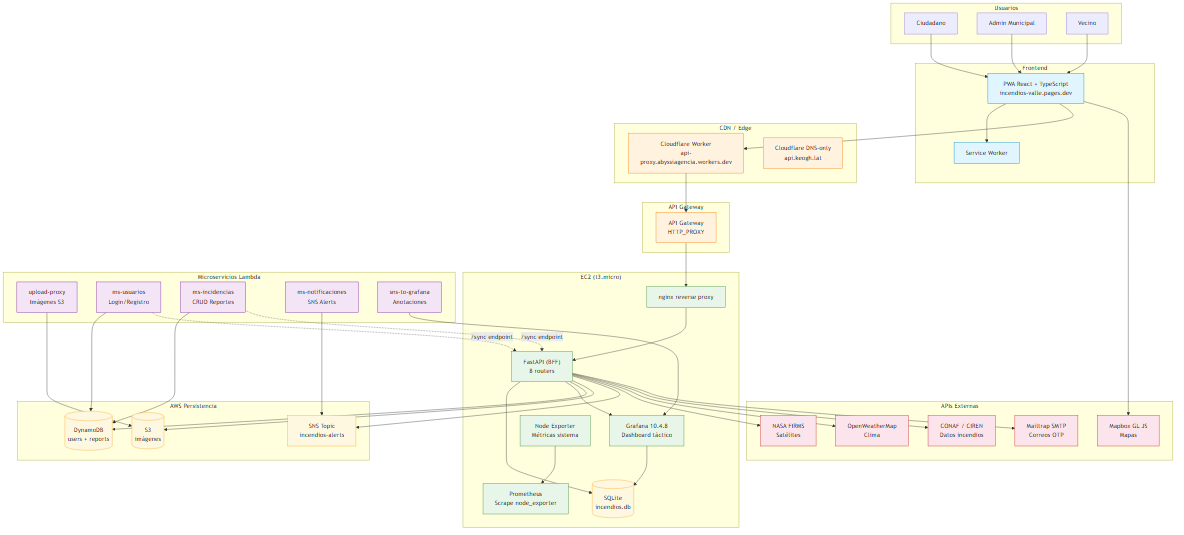
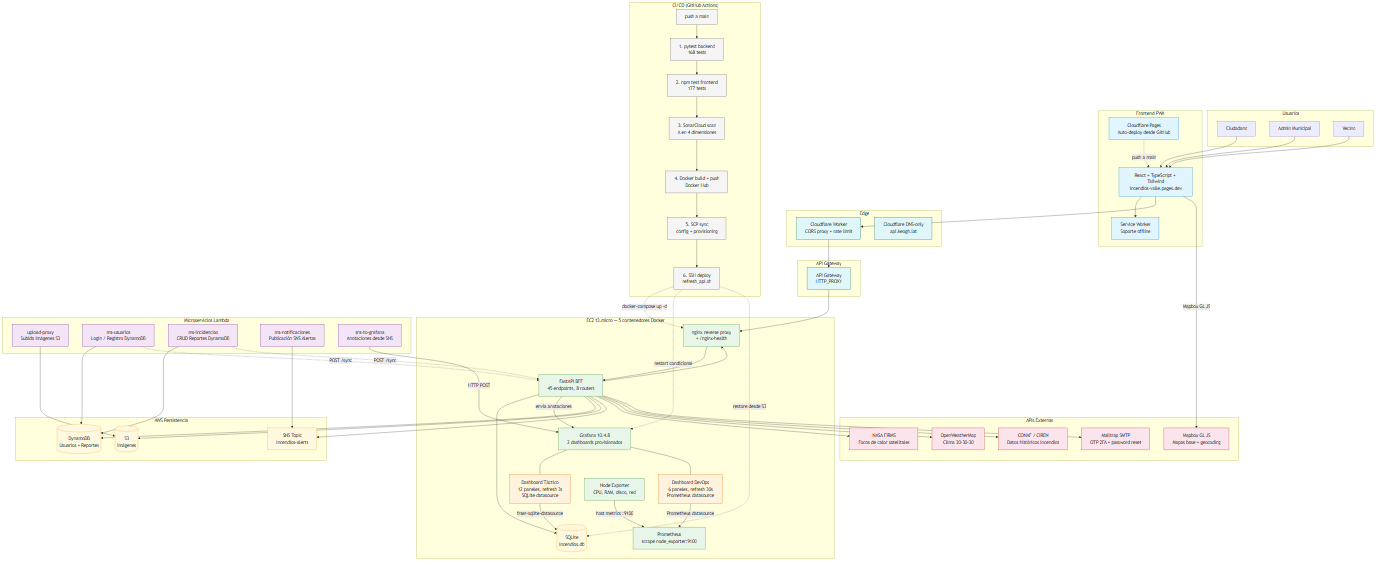
fix: diagrama arquitectura — 2 dashboards Grafana, Prometheus, CI/CD, worker correcto

Changed region(s): [[0.0, 0.0, 1.0, 1.0], [0.8438, 0.5383, 0.875, 0.5682]]

diff --git a/docs/diagrama-arquitectura.md b/docs/diagrama-arquitectura.md
@@ -8,13 +8,14 @@ graph TB
         VECINO[Vecino]
     end
 
-    subgraph "Frontend"
-        PWA["PWA React + TypeScript<br/>incendios-valle.pages.dev"]
-        SW[Service Worker]
+    subgraph "Frontend PWA"
+        PWA["React + TypeScript + Tailwind<br/>incendios-valle.pages.dev"]
+        CF_PAGES["Cloudflare Pages<br/>Auto-deploy desde GitHub"]
+        SW[Service Worker<br/>Soporte offline]
     end
 
-    subgraph "CDN / Edge"
-        CF["Cloudflare Worker<br/>api-proxy.abyssiagencia.workers.dev"]
+    subgraph "Edge"
+        CF_WORKER["Cloudflare Worker<br/>CORS proxy + rate limit"]
         DNS["Cloudflare DNS-only<br/>api.keogh.lat"]
     end
 
@@ -22,35 +23,47 @@ graph TB
         AG["API Gateway<br/>HTTP_PROXY"]
     end
 
-    subgraph "EC2 (t3.micro)"
-        nginx["nginx reverse proxy"]
-        API["FastAPI (BFF)<br/>8 routers"]
-        GRAFANA["Grafana 10.4.8<br/>Dashboard táctico"]
-        PROM["Prometheus<br/>Scrape node_exporter"]
-        NODE["Node Exporter<br/>Métricas sistema"]
+    subgraph "EC2 t3.micro — 5 contenedores Docker"
+        nginx["nginx reverse proxy<br/>+ /nginx-health"]
+        API["FastAPI BFF<br/>45 endpoints, 8 routers"]
+        GRAFANA["Grafana 10.4.8<br/>2 dashboards provisionados"]
+        G_DASH1["Dashboard Táctico<br/>12 paneles, refresh 3s<br/>SQLite datasource"]
+        G_DASH2["Dashboard DevOps<br/>6 paneles, refresh 30s<br/>Prometheus datasource"]
+        PROM["Prometheus<br/>scrape node_exporter:9100"]
+        NODE["Node Exporter<br/>CPU, RAM, disco, red"]
         SQLITE[(SQLite<br/>incendios.db)]
     end
 
     subgraph "Microservicios Lambda"
-        UP["upload-proxy<br/>Imágenes S3"]
-        USR["ms-usuarios<br/>Login/Registro"]
-        INC["ms-incidencias<br/>CRUD Reportes"]
-        NOT["ms-notificaciones<br/>SNS Alerts"]
-        SNS2G["sns-to-grafana<br/>Anotaciones"]
+        UP["upload-proxy<br/>Subida imágenes S3"]
+        USR["ms-usuarios<br/>Login / Registro DynamoDB"]
+        INC["ms-incidencias<br/>CRUD Reportes DynamoDB"]
+        NOT["ms-notificaciones<br/>Publicación SNS Alertas"]
+        SNS2G["sns-to-grafana<br/>Anotaciones desde SNS"]
     end
 
     subgraph "AWS Persistencia"
-        DDB[(DynamoDB<br/>users + reports)]
-        S3[(S3<br/>imágenes)]
+        DDB[(DynamoDB<br/>Usuarios + Reportes)]
+        S3[(S3<br/>Imágenes)]
         SNS["SNS Topic<br/>incendios-alerts"]
     end
 
     subgraph "APIs Externas"
-        FIRMS["NASA FIRMS<br/>Satélites"]
-        OWM["OpenWeatherMap<br/>Clima"]
-        CONAF["CONAF / CIREN<br/>Datos incendios"]
-        MAILTRAP["Mailtrap SMTP<br/>Correos OTP"]
-        MAPBOX["Mapbox GL JS<br/>Mapas"]
+        FIRMS["NASA FIRMS<br/>Focos de calor satelitales"]
+        OWM["OpenWeatherMap<br/>Clima 30-30-30"]
+        CONAF["CONAF / CIREN<br/>Datos históricos incendios"]
+        MAILTRAP["Mailtrap SMTP<br/>OTP 2FA + password reset"]
+        MAPBOX["Mapbox GL JS<br/>Mapas base + geocoding"]
+    end
+
+    subgraph "CI/CD (GitHub Actions)"
+        GH["push a main"]
+        BACKEND_TESTS["1. pytest backend<br/>168 tests"]
+        FRONTEND_TESTS["2. npm test frontend<br/>177 tests"]
+        SONAR["3. SonarCloud scan<br/>A en 4 dimensiones"]
+        DOCKER["4. Docker build + push<br/>Docker Hub"]
+        SCP["5. SCP sync<br/>config + provisioning"]
+        SSH["6. SSH deploy<br/>refresh_api.sh"]
     end
 
     %% Conexiones Frontend
@@ -58,18 +71,25 @@ graph TB
     ADMIN --> PWA
     VECINO --> PWA
     PWA --> SW
+    CF_PAGES -.->|push a main| PWA
 
     %% Flujo principal
-    PWA --> CF
-    CF --> AG
+    PWA --> CF_WORKER
+    CF_WORKER --> AG
     AG --> nginx
     nginx --> API
 
     %% API interna
     API --> SQLITE
-    API --> GRAFANA
-    GRAFANA --> SQLITE
-    NODE --> PROM
+    API -->|envía anotaciones| GRAFANA
+    API --> nginx
+
+    %% Grafana datasources
+    GRAFANA --- G_DASH1
+    GRAFANA --- G_DASH2
+    G_DASH1 -->|frser-sqlite-datasource| SQLITE
+    G_DASH2 -->|Prometheus datasource| PROM
+    NODE -->|host metrics :9100| PROM
 
     %% API a AWS
     API --> DDB
@@ -81,48 +101,58 @@ graph TB
     USR --> DDB
     INC --> DDB
     NOT --> SNS
-    SNS2G --> GRAFANA
+    SNS2G -->|HTTP POST| GRAFANA
 
     %% APIs externas
     API --> FIRMS
     API --> OWM
     API --> CONAF
     API --> MAILTRAP
-    PWA --> MAPBOX
+    PWA -->|Mapbox GL JS| MAPBOX
 
     %% Sync Lambda → API
-    USR -.->|/sync endpoint| API
-    INC -.->|/sync endpoint| API
+    USR -.->|POST /sync| API
+    INC -.->|POST /sync| API
+
+    %% CI/CD pipeline
+    GH --> BACKEND_TESTS --> FRONTEND_TESTS --> SONAR --> DOCKER --> SCP --> SSH
+    SSH -.->|docker-compose up -d| nginx
+    SSH -.->|restart condicional| GRAFANA
+    SSH -.->|restore desde S3| SQLITE
 
     %% Labels
     classDef frontend fill:#e1f5fe,stroke:#0288d1
-    classDef infra fill:#fff3e0,stroke:#f57c00
+    classDef edge fill:#e0f7fa,stroke:#00695c
     classDef compute fill:#e8f5e9,stroke:#388e3c
     classDef aws fill:#f3e5f5,stroke:#7b1fa2
     classDef external fill:#fce4ec,stroke:#c62828
     classDef db fill:#fff8e1,stroke:#f9a825
+    classDef cicd fill:#f5f5f5,stroke:#616161
+    classDef dashboard fill:#fff3e0,stroke:#ef6c00
 
-    class PWA,SW frontend
-    class CF,DNS,AG infra
+    class PWA,SW,CF_PAGES frontend
+    class CF_WORKER,DNS,AG edge
     class nginx,API,GRAFANA,PROM,NODE compute
+    class G_DASH1,G_DASH2 dashboard
     class UP,USR,INC,NOT,SNS2G aws
     class FIRMS,OWM,CONAF,MAILTRAP,MAPBOX external
     class DDB,S3,SNS,SQLITE db
+    class GH,BACKEND_TESTS,FRONTEND_TESTS,SONAR,DOCKER,SCP,SSH cicd
 ```
 
 ## Descripción del flujo
 
-1. **Usuario** accede a la PWA en `incendios-valle.pages.dev`
-2. La PWA se comunica via **Cloudflare Worker** (proxy CORS) → **API Gateway** → **nginx** → **FastAPI** (EC2)
-3. **FastAPI** (BFF) orquesta datos desde:
-   - **SQLite**: reportes, alertas, auditoría (para Grafana + admin)
-   - **DynamoDB**: usuarios, reportes (para Lambdas)
-   - **S3**: imágenes de reportes
-   - **APIs externas**: NASA FIRMS, OpenWeatherMap, CONAF/CIREN
-4. **Grafana** se conecta directamente a SQLite para dashboards tácticos
-5. **5 Lambdas** manejan operaciones específicas sin servidor
-6. **Mailtrap** envía OTPs por correo para 2FA y password reset
-7. **CI/CD**: GitHub Actions → Docker build/push → SCP + SSH deploy a EC2
+1. **Usuario** accede a la PWA en `incendios-valle.pages.dev` (Cloudflare Pages con auto-deploy desde GitHub)
+2. La PWA se comunica vía **Cloudflare Worker** (CORS + rate limit) → **API Gateway** (DNS-only) → **nginx** → **FastAPI BFF** (EC2)
+3. **FastAPI** (BFF) orquesta datos desde: SQLite (reportes, alertas, auditoría), DynamoDB (usuarios, reportes), S3 (imágenes), APIs externas (NASA FIRMS, OpenWeatherMap, CONAF/CIREN)
+4. **Grafana** tiene **2 dashboards** con refresh independiente:
+   - **Dashboard Táctico** (3s): SQLite datasource — 12 paneles (focos activos, clima 30-30-30, geomap con cross-filtering, FIRMS satelital, CONAF, recursos)
+   - **Dashboard DevOps** (30s): Prometheus datasource — 6 paneles (CPU, RAM, disco, red, healthcheck API, alertas recientes)
+5. **Prometheus** scrapea `node_exporter` cada 15s para métricas del servidor EC2
+6. **5 Lambdas** manejan operaciones específicas: upload-proxy (S3), ms-usuarios (DynamoDB), ms-incidencias (DynamoDB), ms-notificaciones (SNS), sns-to-grafana (anotaciones)
+7. **Sincronización**: Lambdas replican DynamoDB → SQLite vía `POST /sync`
+8. **Mailtrap SMTP** envía OTP para 2FA y recuperación de contraseña
+9. **CI/CD**: push a `main` → pytest backend (168) → npm test frontend (177) → SonarCloud → Docker build/push → SCP config → SSH deploy con restore SQLite desde S3
 
 ## Tecnologías
 
@@ -132,12 +162,14 @@ graph TB
 | API | Python 3.11+, FastAPI, uvicorn |
 | Lambdas | Python 3.11+, boto3 |
 | Base de datos primaria | DynamoDB (AWS) |
-| Base de datos secundaria | SQLite (WAL mode) |
+| Base de datos secundaria | SQLite (WAL mode, busy_timeout) |
 | Almacenamiento imágenes | S3 (AWS) |
 | Mensajería | SNS (AWS) |
-| Dashboard | Grafana 10.4.8 |
-| Contenedores | Docker, docker-compose |
-| CI/CD | GitHub Actions |
-| Edge/DNS | Cloudflare (DNS-only) |
+| Dashboard Táctico | Grafana 10.4.8 + frser-sqlite-datasource |
+| Dashboard DevOps | Grafana 10.4.8 + Prometheus datasource |
+| Monitoreo servidor | Prometheus + Node Exporter |
+| Contenedores | Docker, docker-compose (5 contenedores) |
+| CI/CD | GitHub Actions (4 workflows) |
+| Edge/DNS | Cloudflare (DNS-only + Workers) |
 | Correo | Mailtrap SMTP |
-| Mapas | Mapbox GL JS |
+| Mapas | Mapbox GL JS (+ Leaflet en previews) |